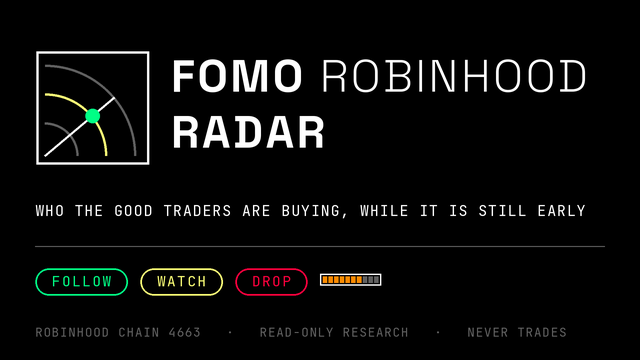
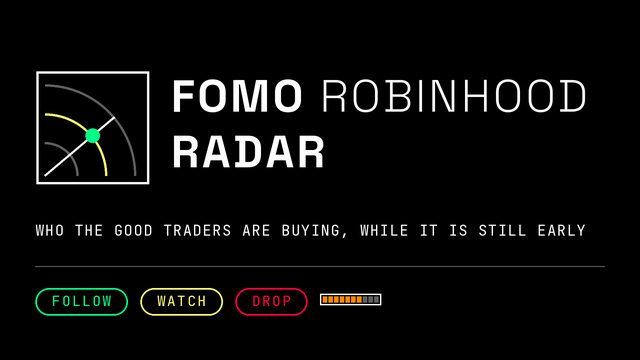
Drop the footnote from the card people see before they start
Three grey labels under a hairline read as boilerplate on a 640px card,
and the bot says the same thing in words on every /start anyway. The
remaining block drops by 5% of the height so it stays optically centred
instead of clinging to the top of an empty card.

The banner and the link preview keep theirs — there the line has room
and reads as a caption rather than fine print.

diff --git a/assets/brand/make_brand.py b/assets/brand/make_brand.py
@@ -229,38 +229,42 @@ def avatar(name: str, side: int = 512, solid: bool = False) -> None:
     save(im, name, side, side)
 
 
-def banner(name: str, w: int, h: int, note: str = "") -> None:
+def banner(name: str, w: int, h: int, note: str = "", footnote: bool = True) -> None:
     """Wide artwork: description picture, /start photo, link preview.
 
     One left edge for everything below the lockup — a grid built from hairlines cannot afford two
     ragged margins — and the readout strip sits on the baseline the rule establishes.
+
+    Without the footnote the whole block drops by `dy` so the remaining content stays optically
+    centred rather than clinging to the top of an empty card.
     """
     im, d = canvas(w, h)
     W, H = w * SS, h * SS
     pad = W * 0.055
     inner = W - pad * 2
+    dy = 0.0 if footnote else H * 0.055
 
     m = H * 0.32
-    mark(d, pad, H * 0.14, m)
+    mark(d, pad, H * 0.14 + dy, m)
 
     tx = pad + m + W * 0.032
     big = H * 0.125
     f7, f3 = sans(big, 700), sans(big, 300)
     track = big * 0.055
-    base = H * 0.14 + big * 0.92
+    base = H * 0.14 + dy + big * 0.92
     draw_runs(d, tx, base, [("FOMO ", f7), ("ROBINHOOD", f3)], WHITE, track)
     draw_runs(d, tx, base + big * 1.24, [("RADAR", f7)], WHITE, track)
 
     fm, tm = mono_fit("WHO THE GOOD TRADERS ARE BUYING, WHILE IT IS STILL EARLY",
                       inner, H * 0.042)
-    draw_runs(d, pad, H * 0.60,
+    draw_runs(d, pad, H * 0.60 + dy,
               [("WHO THE GOOD TRADERS ARE BUYING, WHILE IT IS STILL EARLY", fm)], WHITE, tm)
 
     # the hairline the whole system is built from
-    d.line([pad, H * 0.685, W - pad, H * 0.685], fill=CARBON, width=max(1, round(H / 320)))
+    d.line([pad, H * 0.685 + dy, W - pad, H * 0.685 + dy], fill=CARBON, width=max(1, round(H / 320)))
 
     # the readout strip: the verdict vocabulary in the three colours it is published in
-    row = H * 0.795
+    row = H * 0.795 + dy
     x = pad
     for text, colour in (("FOLLOW", GREEN), ("WATCH", YELLOW), ("DROP", CRIMSON)):
         x = pill(d, x, row, text, colour, H * 0.040) + W * 0.020
@@ -274,15 +278,16 @@ def banner(name: str, w: int, h: int, note: str = "") -> None:
         fn, tn = mono_fit(note, room, H * 0.040)
         draw_runs(d, W - pad - run_width([(note, fn)], tn), row, [(note, fn)], GRAPHITE, tn)
 
-    small = "ROBINHOOD CHAIN 4663   ·   READ-ONLY RESEARCH   ·   NEVER TRADES"
-    fs, ts = mono_fit(small, inner, H * 0.034)
-    draw_runs(d, pad, H * 0.935, [(small, fs)], CARBON, ts)
+    if footnote:
+        small = "ROBINHOOD CHAIN 4663   ·   READ-ONLY RESEARCH   ·   NEVER TRADES"
+        fs, ts = mono_fit(small, inner, H * 0.034)
+        draw_runs(d, pad, H * 0.935, [(small, fs)], CARBON, ts)
     save(im, name, w, h)
 
 
 if __name__ == "__main__":
     avatar("tg-avatar-512.png")
     avatar("tg-avatar-solid-512.png", solid=True)
-    banner("tg-description-640x360.png", 640, 360)
+    banner("tg-description-640x360.png", 640, 360, footnote=False)
     banner("tg-start-1280x640.png", 1280, 640, note="/signals  /fresh  /token  /trader")
     banner("og-1200x630.png", 1200, 630, note="193.233.209.98")
